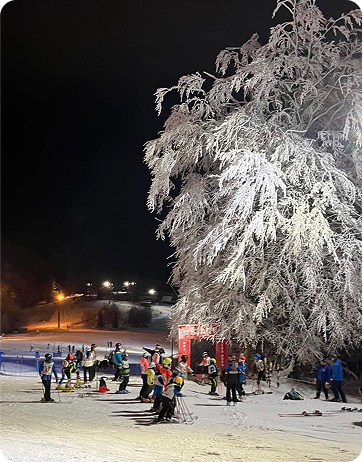
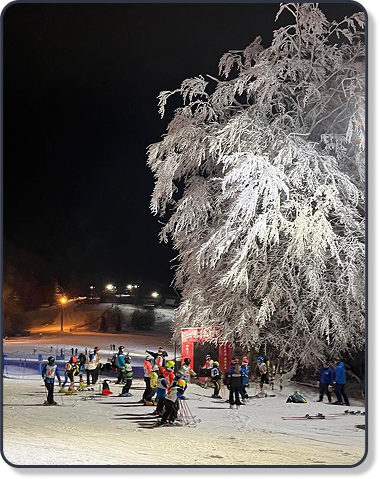
upravy

diff --git a/PRAX/SkiTeam/style.css b/PRAX/SkiTeam/style.css
@@ -9,6 +9,10 @@ html {
     font-size: 62.5%; 
 }
 
+main {
+    background-image: linear-gradient(#A0968F, #362D3A, #313541); /* zistit ako sa robi dvojity gradient */
+}
+/*<!--------------------------------header/domov------------------------------>*/
 a {
     font-family: Arial;
     font-weight: normal;
@@ -64,6 +68,7 @@ ul li a {
     padding: 5px 10px;
     text-align: center;
     transition: all 0.3s ease;
+    font-family: Roboto bold;
 }
 
 ul li a:hover {
@@ -88,7 +93,6 @@ ul li a.no-hover:hover {
     transition: none;           
 }
 
-
 header{
     display: flex;
     justify-content: center;
@@ -100,3 +104,14 @@ header{
     width: 100px;
     margin-bottom: 20px;
 }
+
+/*<!--------------------------------o nas------------------------------>*/
+
+/*<!--------------------------------nasi treneri------------------------------>*/
+
+/*<!--------------------------------podujatia------------------------------>*/
+
+/*<!--------------------------------galeria------------------------------>*/
+
+/*<!--------------------------------kontakty------------------------------>*/
+
